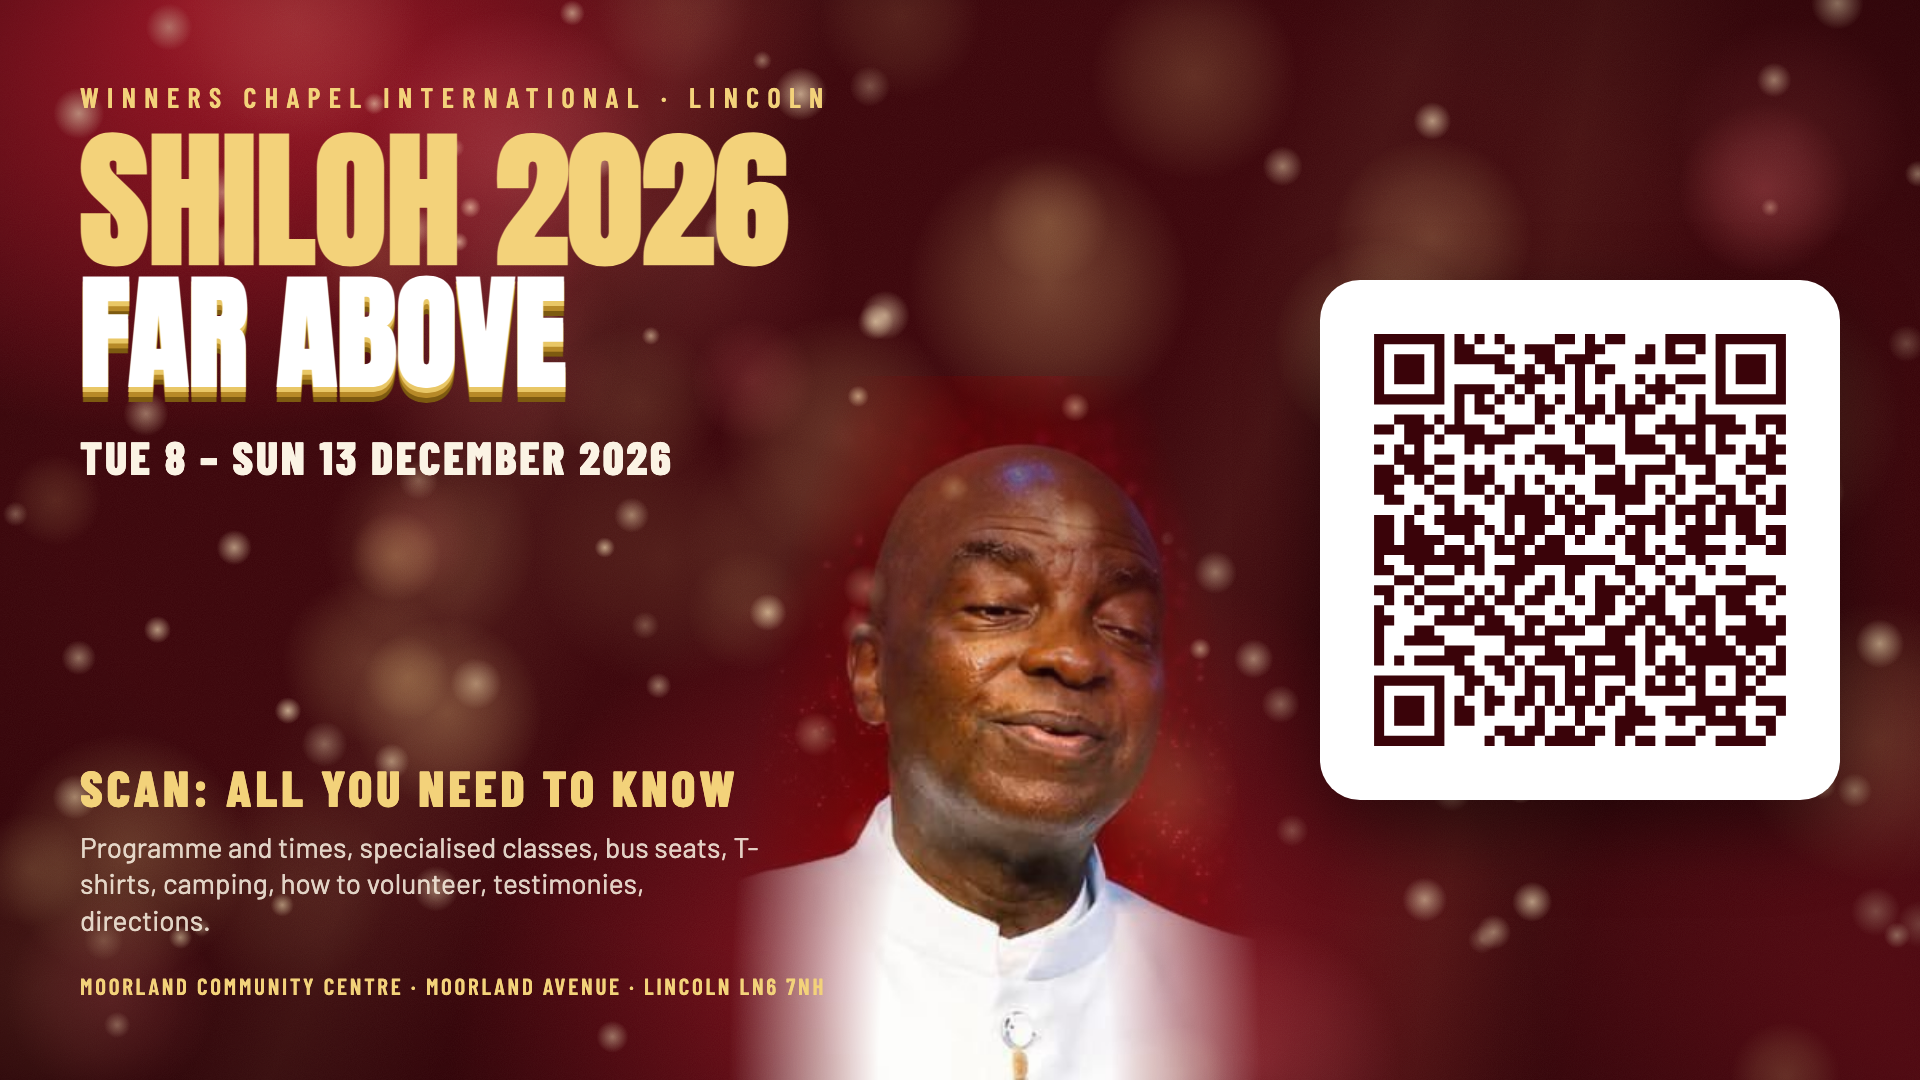
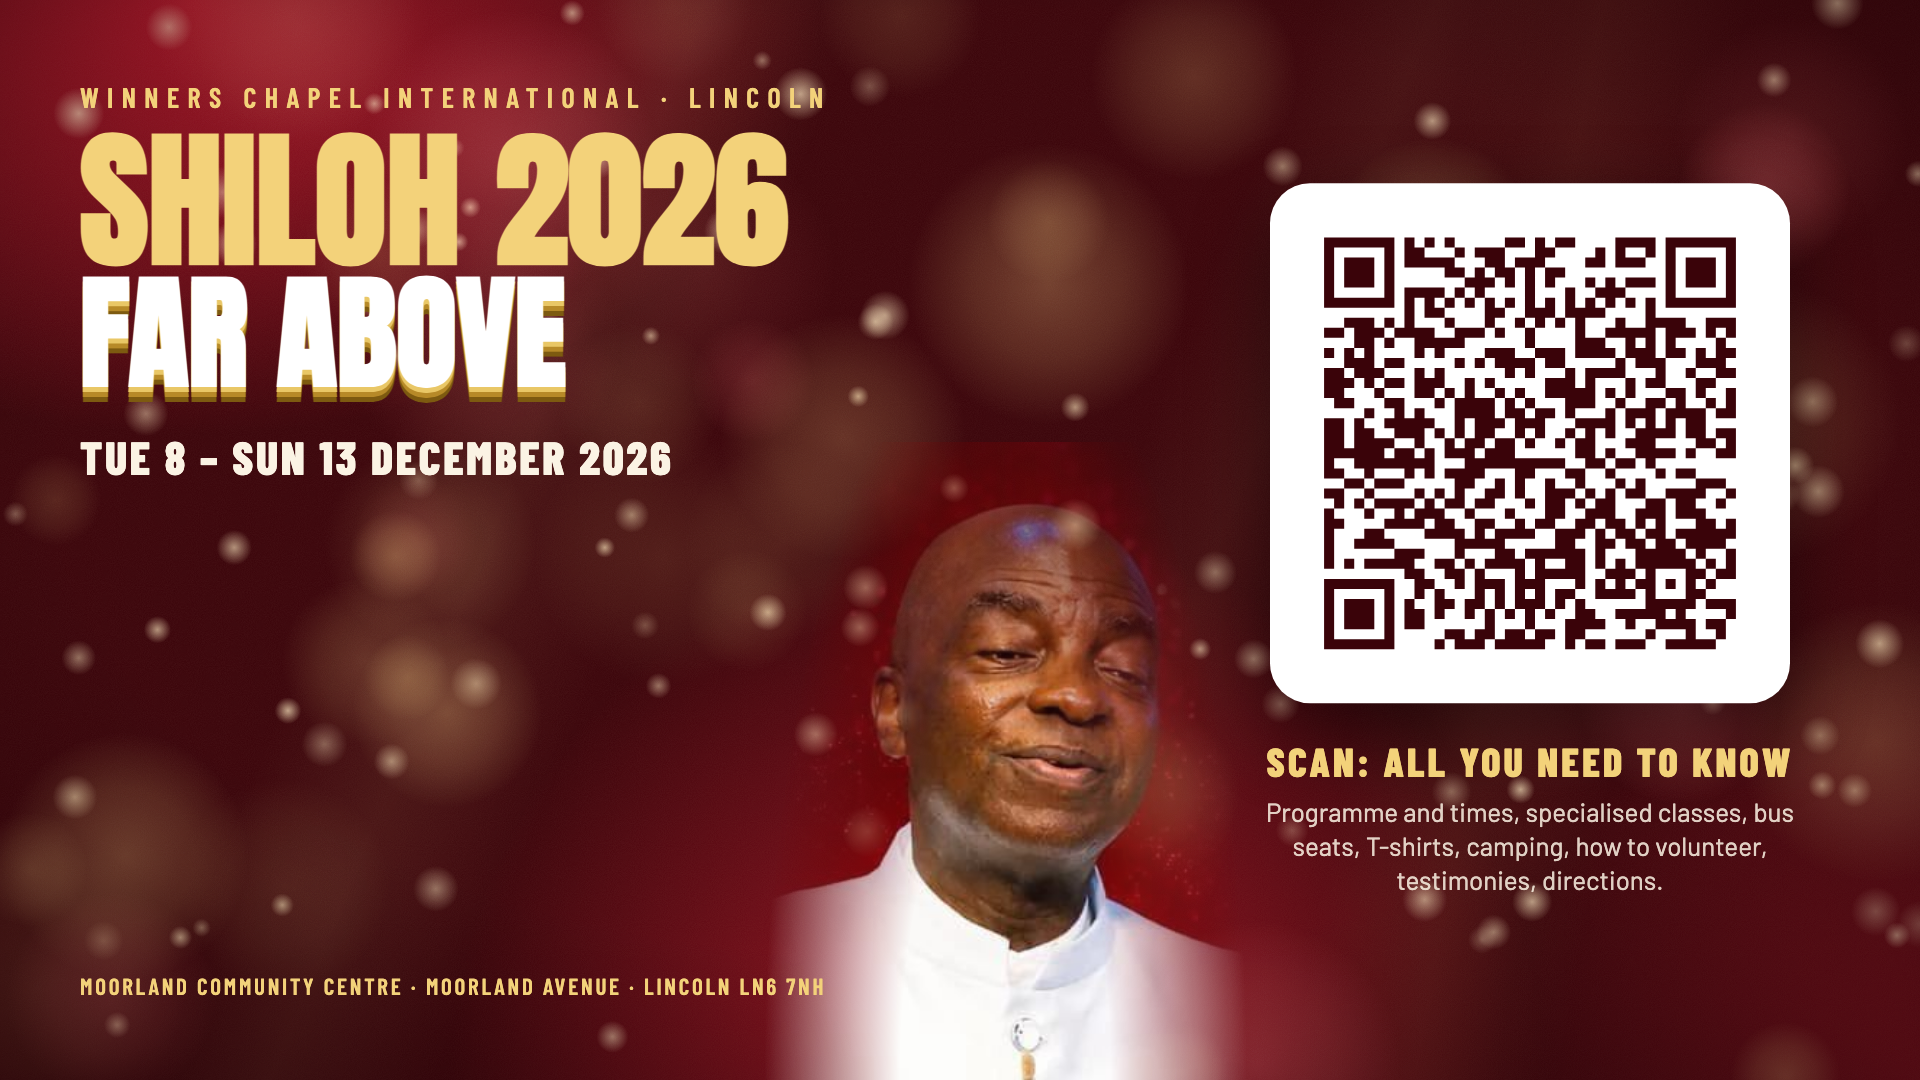
QR slide: scan line and page summary sit under the QR code

diff --git a/assets/shiloh-2026-qr-slide-16x9.html b/assets/shiloh-2026-qr-slide-16x9.html
@@ -9,12 +9,13 @@ body { font-family: "Barlow", Arial, sans-serif; background:#3a0309; }
 h1 { font-family:"Anton"; font-size:148px; line-height:.9; margin:20px 0 0; color:#f3d27a; text-transform:uppercase; }
 h2 { font-family:"Anton"; font-size:124px; line-height:.9; margin:10px 0 0; color:#fff; text-transform:uppercase; text-shadow: 0 5px 0 #e9c766, 0 10px 0 #b78a28, 0 15px 0 #7d5a10; }
 .dates { font-family:"Barlow Condensed"; font-weight:800; font-size:46px; letter-spacing:.06em; margin-top:40px; text-transform:uppercase; }
-.cta { font-family:"Barlow Condensed"; font-weight:800; font-size:50px; letter-spacing:.08em; text-transform:uppercase; margin-top:auto; color:#f3d27a; }
-.sub { font-size:28px; line-height:1.3; margin-top:12px; max-width:700px; color:rgba(251,243,228,.85); }
-.foot { margin-top:34px; font-family:"Barlow Condensed"; font-weight:600; letter-spacing:.12em; text-transform:uppercase; font-size:23px; color:#f3d27a; white-space:nowrap; }
-.papa { position:absolute; z-index:1; background:url("shiloh-2026-hero.jpg") no-repeat; background-size:1638px auto; }
-.papa { left:680px; bottom:0; width:630px; height:704px; background-position:-1008px -192px; -webkit-mask-image: radial-gradient(ellipse 44% 125% at 50% 100%, #000 42%, transparent 96%); mask-image: radial-gradient(ellipse 44% 125% at 50% 100%, #000 42%, transparent 96%); }
-.card { position:absolute; z-index:3; right:80px; top:50%; transform:translateY(-50%); background:#fff; border-radius:40px; padding:34px; width:520px; height:520px; box-sizing:border-box; box-shadow: 0 30px 80px rgba(0,0,0,.45); }
+.cta { font-family:"Barlow Condensed"; font-weight:800; font-size:40px; white-space:nowrap; letter-spacing:.08em; text-transform:uppercase; margin-top:34px; color:#f3d27a; }
+.sub { font-size:26px; line-height:1.3; margin:10px auto 0; max-width:560px; color:rgba(251,243,228,.85); }
+.foot { margin-top:auto; font-family:"Barlow Condensed"; font-weight:600; letter-spacing:.12em; text-transform:uppercase; font-size:23px; color:#f3d27a; white-space:nowrap; }
+.papa { position:absolute; z-index:1; background:url("shiloh-2026-hero.jpg") no-repeat; background-size:1485px auto; }
+.papa { left:720px; bottom:0; width:571px; height:638px; background-position:-914px -174px; -webkit-mask-image: radial-gradient(ellipse 44% 125% at 50% 100%, #000 42%, transparent 96%); mask-image: radial-gradient(ellipse 44% 125% at 50% 100%, #000 42%, transparent 96%); }
+.scan { position:absolute; z-index:3; right:80px; top:50%; transform:translateY(-50%); width:620px; text-align:center; }
+.card { margin:0 auto; background:#fff; border-radius:40px; padding:34px; width:520px; height:520px; box-sizing:border-box; box-shadow: 0 30px 80px rgba(0,0,0,.45); }
 .card svg { width:452px; height:452px; display:block; }
 
 .bg, .bg::before, .bg::after { position:absolute; inset:0; content:""; pointer-events:none; }
@@ -178,11 +179,13 @@ h2 { font-family:"Anton"; font-size:124px; line-height:.9; margin:10px 0 0; colo
     <h1>Shiloh 2026</h1>
     <h2>Far Above</h2>
     <div class="dates">Tue 8 – Sun 13 December 2026</div>
-    <div class="cta">Scan: all you need to know</div>
-    <div class="sub">Programme and times, specialised classes, bus seats, T-shirts, camping, how to volunteer, testimonies, directions.</div>
     <div class="foot">Moorland Community Centre · Moorland Avenue · Lincoln LN6 7NH</div>
   </div>
   <div class="papa"></div>
-  <div class="card"><svg viewBox="0 0 450 450" class="segno"><g transform="scale(10)"><path fill="#fff" d="M0 0h45v45h-45z"/><path class="qrline" stroke="#3a0309" d="M2 2.5h7m1 0h1m1 0h1m1 0h1m5 0h2m1 0h1m1 0h2m4 0h4m1 0h7m-41 1h1m5 0h1m1 0h2m3 0h1m1 0h3m3 0h2m4 0h1m1 0h1m2 0h1m1 0h1m5 0h1m-41 1h1m1 0h3m1 0h1m1 0h5m3 0h2m1 0h3m4 0h2m1 0h3m2 0h1m1 0h3m1 0h1m-41 1h1m1 0h3m1 0h1m5 0h2m1 0h1m1 0h2m1 0h1m1 0h2m10 0h1m1 0h3m1 0h1m-41 1h1m1 0h3m1 0h1m7 0h3m1 0h1m1 0h1m1 0h1m3 0h1m1 0h1m1 0h3m1 0h1m1 0h3m1 0h1m-41 1h1m5 0h1m1 0h4m1 0h1m1 0h1m4 0h1m3 0h1m2 0h3m4 0h1m5 0h1m-41 1h7m1 0h1m1 0h1m1 0h1m1 0h1m1 0h1m1 0h1m1 0h1m1 0h1m1 0h1m1 0h1m1 0h1m1 0h1m1 0h1m1 0h7m-33 1h1m1 0h2m4 0h2m2 0h3m1 0h4m4 0h1m-31 1h3m1 0h1m1 0h1m3 0h1m3 0h1m2 0h1m1 0h1m1 0h1m1 0h1m3 0h1m2 0h4m2 0h3m-41 1h2m1 0h3m1 0h4m2 0h3m1 0h1m2 0h1m4 0h1m2 0h5m1 0h3m1 0h1m1 0h1m-38 1h2m1 0h1m2 0h5m6 0h1m4 0h3m2 0h1m1 0h1m1 0h1m4 0h1m-40 1h1m1 0h1m1 0h1m4 0h1m1 0h1m4 0h3m2 0h3m1 0h4m1 0h3m1 0h2m1 0h1m1 0h2m-39 1h3m1 0h2m5 0h1m1 0h1m1 0h4m1 0h2m5 0h1m1 0h3m3 0h3m-40 1h2m1 0h3m3 0h1m1 0h1m6 0h1m1 0h1m3 0h1m1 0h4m3 0h1m2 0h1m2 0h2m-41 1h3m1 0h1m1 0h2m1 0h3m2 0h1m1 0h1m5 0h3m1 0h1m3 0h1m1 0h2m3 0h2m-39 1h2m3 0h1m3 0h2m1 0h1m1 0h1m2 0h1m1 0h1m2 0h5m1 0h1m1 0h1m3 0h2m1 0h1m2 0h1m-40 1h2m3 0h2m3 0h1m1 0h4m1 0h1m1 0h1m3 0h3m2 0h1m2 0h2m1 0h1m2 0h1m1 0h1m-37 1h1m2 0h1m1 0h1m3 0h4m1 0h2m1 0h2m1 0h1m3 0h1m1 0h3m1 0h4m1 0h2m-41 1h2m1 0h1m2 0h5m2 0h1m1 0h3m1 0h3m3 0h4m1 0h1m1 0h1m1 0h1m1 0h2m-38 1h2m1 0h2m2 0h3m1 0h1m1 0h1m1 0h2m2 0h1m1 0h1m2 0h1m1 0h1m1 0h1m2 0h4m1 0h2m1 0h2m-41 1h2m1 0h4m2 0h1m2 0h1m1 0h2m1 0h2m1 0h1m2 0h1m1 0h2m3 0h3m4 0h2m1 0h1m-41 1h6m1 0h2m1 0h1m1 0h3m1 0h3m6 0h2m1 0h1m2 0h4m1 0h1m2 0h2m-41 1h1m2 0h8m3 0h10m2 0h2m1 0h2m1 0h1m-33 1h2m2 0h1m3 0h1m1 0h1m1 0h4m3 0h2m3 0h2m2 0h1m4 0h1m1 0h2m-35 1h2m1 0h3m5 0h2m2 0h1m1 0h1m2 0h1m2 0h1m3 0h1m1 0h1m5 0h3m-40 1h2m2 0h1m4 0h1m1 0h1m1 0h1m2 0h2m1 0h1m2 0h3m1 0h1m1 0h1m1 0h2m2 0h4m2 0h1m-40 1h1m1 0h1m1 0h4m1 0h1m1 0h2m1 0h2m3 0h1m1 0h2m1 0h1m1 0h2m3 0h2m1 0h2m2 0h1m-40 1h1m3 0h1m2 0h1m1 0h3m2 0h1m3 0h1m3 0h2m2 0h3m2 0h3m1 0h3m-38 1h2m4 0h4m1 0h2m2 0h2m2 0h1m1 0h2m2 0h2m1 0h2m1 0h1m1 0h1m3 0h2m1 0h1m-41 1h1m3 0h2m4 0h4m1 0h1m1 0h4m2 0h3m1 0h1m1 0h2m1 0h2m1 0h6m-41 1h1m2 0h4m6 0h5m5 0h2m2 0h2m1 0h2m1 0h2m1 0h4m-40 1h1m6 0h3m3 0h1m3 0h2m1 0h6m1 0h1m3 0h5m1 0h1m2 0h1m-41 1h1m1 0h1m1 0h5m2 0h2m1 0h1m1 0h4m1 0h1m2 0h2m1 0h1m1 0h1m1 0h6m1 0h1m1 0h1m-33 1h2m2 0h2m1 0h1m3 0h1m1 0h5m2 0h3m1 0h1m3 0h2m1 0h2m-41 1h7m2 0h2m2 0h1m1 0h3m1 0h3m3 0h1m1 0h1m1 0h1m1 0h2m1 0h1m1 0h1m1 0h1m-39 1h1m5 0h1m2 0h1m1 0h1m3 0h1m1 0h1m1 0h1m1 0h1m1 0h2m2 0h4m1 0h1m3 0h2m-38 1h1m1 0h3m1 0h1m1 0h1m2 0h2m1 0h2m1 0h1m1 0h3m1 0h1m1 0h1m6 0h5m1 0h3m-41 1h1m1 0h3m1 0h1m1 0h2m1 0h1m2 0h1m1 0h1m1 0h1m1 0h1m1 0h1m2 0h2m2 0h5m1 0h1m4 0h1m-41 1h1m1 0h3m1 0h1m1 0h2m6 0h1m3 0h1m3 0h4m2 0h1m2 0h4m1 0h2m-40 1h1m5 0h1m5 0h2m1 0h2m1 0h2m1 0h2m1 0h2m6 0h1m3 0h1m2 0h1m-40 1h7m4 0h1m1 0h3m1 0h5m2 0h1m1 0h2m1 0h3m2 0h5"/></g></svg></div>
+  <div class="scan">
+    <div class="card"><svg viewBox="0 0 450 450" class="segno"><g transform="scale(10)"><path fill="#fff" d="M0 0h45v45h-45z"/><path class="qrline" stroke="#3a0309" d="M2 2.5h7m1 0h1m1 0h1m1 0h1m5 0h2m1 0h1m1 0h2m4 0h4m1 0h7m-41 1h1m5 0h1m1 0h2m3 0h1m1 0h3m3 0h2m4 0h1m1 0h1m2 0h1m1 0h1m5 0h1m-41 1h1m1 0h3m1 0h1m1 0h5m3 0h2m1 0h3m4 0h2m1 0h3m2 0h1m1 0h3m1 0h1m-41 1h1m1 0h3m1 0h1m5 0h2m1 0h1m1 0h2m1 0h1m1 0h2m10 0h1m1 0h3m1 0h1m-41 1h1m1 0h3m1 0h1m7 0h3m1 0h1m1 0h1m1 0h1m3 0h1m1 0h1m1 0h3m1 0h1m1 0h3m1 0h1m-41 1h1m5 0h1m1 0h4m1 0h1m1 0h1m4 0h1m3 0h1m2 0h3m4 0h1m5 0h1m-41 1h7m1 0h1m1 0h1m1 0h1m1 0h1m1 0h1m1 0h1m1 0h1m1 0h1m1 0h1m1 0h1m1 0h1m1 0h1m1 0h1m1 0h7m-33 1h1m1 0h2m4 0h2m2 0h3m1 0h4m4 0h1m-31 1h3m1 0h1m1 0h1m3 0h1m3 0h1m2 0h1m1 0h1m1 0h1m1 0h1m3 0h1m2 0h4m2 0h3m-41 1h2m1 0h3m1 0h4m2 0h3m1 0h1m2 0h1m4 0h1m2 0h5m1 0h3m1 0h1m1 0h1m-38 1h2m1 0h1m2 0h5m6 0h1m4 0h3m2 0h1m1 0h1m1 0h1m4 0h1m-40 1h1m1 0h1m1 0h1m4 0h1m1 0h1m4 0h3m2 0h3m1 0h4m1 0h3m1 0h2m1 0h1m1 0h2m-39 1h3m1 0h2m5 0h1m1 0h1m1 0h4m1 0h2m5 0h1m1 0h3m3 0h3m-40 1h2m1 0h3m3 0h1m1 0h1m6 0h1m1 0h1m3 0h1m1 0h4m3 0h1m2 0h1m2 0h2m-41 1h3m1 0h1m1 0h2m1 0h3m2 0h1m1 0h1m5 0h3m1 0h1m3 0h1m1 0h2m3 0h2m-39 1h2m3 0h1m3 0h2m1 0h1m1 0h1m2 0h1m1 0h1m2 0h5m1 0h1m1 0h1m3 0h2m1 0h1m2 0h1m-40 1h2m3 0h2m3 0h1m1 0h4m1 0h1m1 0h1m3 0h3m2 0h1m2 0h2m1 0h1m2 0h1m1 0h1m-37 1h1m2 0h1m1 0h1m3 0h4m1 0h2m1 0h2m1 0h1m3 0h1m1 0h3m1 0h4m1 0h2m-41 1h2m1 0h1m2 0h5m2 0h1m1 0h3m1 0h3m3 0h4m1 0h1m1 0h1m1 0h1m1 0h2m-38 1h2m1 0h2m2 0h3m1 0h1m1 0h1m1 0h2m2 0h1m1 0h1m2 0h1m1 0h1m1 0h1m2 0h4m1 0h2m1 0h2m-41 1h2m1 0h4m2 0h1m2 0h1m1 0h2m1 0h2m1 0h1m2 0h1m1 0h2m3 0h3m4 0h2m1 0h1m-41 1h6m1 0h2m1 0h1m1 0h3m1 0h3m6 0h2m1 0h1m2 0h4m1 0h1m2 0h2m-41 1h1m2 0h8m3 0h10m2 0h2m1 0h2m1 0h1m-33 1h2m2 0h1m3 0h1m1 0h1m1 0h4m3 0h2m3 0h2m2 0h1m4 0h1m1 0h2m-35 1h2m1 0h3m5 0h2m2 0h1m1 0h1m2 0h1m2 0h1m3 0h1m1 0h1m5 0h3m-40 1h2m2 0h1m4 0h1m1 0h1m1 0h1m2 0h2m1 0h1m2 0h3m1 0h1m1 0h1m1 0h2m2 0h4m2 0h1m-40 1h1m1 0h1m1 0h4m1 0h1m1 0h2m1 0h2m3 0h1m1 0h2m1 0h1m1 0h2m3 0h2m1 0h2m2 0h1m-40 1h1m3 0h1m2 0h1m1 0h3m2 0h1m3 0h1m3 0h2m2 0h3m2 0h3m1 0h3m-38 1h2m4 0h4m1 0h2m2 0h2m2 0h1m1 0h2m2 0h2m1 0h2m1 0h1m1 0h1m3 0h2m1 0h1m-41 1h1m3 0h2m4 0h4m1 0h1m1 0h4m2 0h3m1 0h1m1 0h2m1 0h2m1 0h6m-41 1h1m2 0h4m6 0h5m5 0h2m2 0h2m1 0h2m1 0h2m1 0h4m-40 1h1m6 0h3m3 0h1m3 0h2m1 0h6m1 0h1m3 0h5m1 0h1m2 0h1m-41 1h1m1 0h1m1 0h5m2 0h2m1 0h1m1 0h4m1 0h1m2 0h2m1 0h1m1 0h1m1 0h6m1 0h1m1 0h1m-33 1h2m2 0h2m1 0h1m3 0h1m1 0h5m2 0h3m1 0h1m3 0h2m1 0h2m-41 1h7m2 0h2m2 0h1m1 0h3m1 0h3m3 0h1m1 0h1m1 0h1m1 0h2m1 0h1m1 0h1m1 0h1m-39 1h1m5 0h1m2 0h1m1 0h1m3 0h1m1 0h1m1 0h1m1 0h1m1 0h2m2 0h4m1 0h1m3 0h2m-38 1h1m1 0h3m1 0h1m1 0h1m2 0h2m1 0h2m1 0h1m1 0h3m1 0h1m1 0h1m6 0h5m1 0h3m-41 1h1m1 0h3m1 0h1m1 0h2m1 0h1m2 0h1m1 0h1m1 0h1m1 0h1m1 0h1m2 0h2m2 0h5m1 0h1m4 0h1m-41 1h1m1 0h3m1 0h1m1 0h2m6 0h1m3 0h1m3 0h4m2 0h1m2 0h4m1 0h2m-40 1h1m5 0h1m5 0h2m1 0h2m1 0h2m1 0h2m1 0h2m6 0h1m3 0h1m2 0h1m-40 1h7m4 0h1m1 0h3m1 0h5m2 0h1m1 0h2m1 0h3m2 0h5"/></g></svg></div>
+    <div class="cta">Scan: all you need to know</div>
+    <div class="sub">Programme and times, specialised classes, bus seats, T-shirts, camping, how to volunteer, testimonies, directions.</div>
+  </div>
 </div>
 </body></html>
